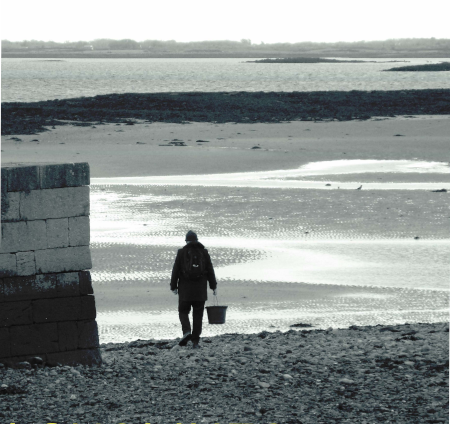
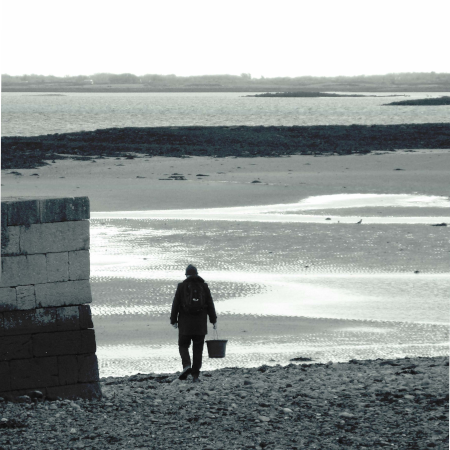
use diff image on home page and right float align to text

diff --git a/_layouts/home.html b/_layouts/home.html
@@ -5,20 +5,20 @@ layout: page
 
 <h2>Longlines - A Novel</h2>
 
-<img src="assets/longlines-cover-square-01.png" alt="Longlines">
+<img src="assets/longlines-cover-narrow-cropped.png" alt="Longlines" style="float: right; margin: 0 0 0 15px;">
 
-<p>JJ Hynes, a veteran of the Troubles in Derry and Belfast has sacrificed his life, marriage, family to the Cause. Now he’s on the run.</p>
+<p>JJ Hynes, a veteran of the Troubles in Derry and Belfast has sacrificed his life, marriage, family to the Cause. Now he’s on the run.<br/><br/>
 
-<p>Traumatised, bewildered, JJ finds refuge in Holland with a survivor of the Dutch Resistance who is still haunted, like himself, by memories of the past.</p>
+Traumatised, bewildered, JJ finds refuge in Holland with a survivor of the Dutch Resistance who is still haunted, like himself, by memories of the past.<br/><br/>
 
-<p>Fate intervenes and JJ is called back to Ireland, tasked with persuading comrades in the West to back the ‘road to peace’, a process he wants to believe in.</p>
+Fate intervenes and JJ is called back to Ireland, tasked with persuading comrades in the West to back the ‘road to peace’, a process he wants to believe in.<br/><br/>
 
-<p>In the village of Killoveragh, he encounters Ashling, a might-have-been sweetheart from his time in Dublin, and her sister Nora.</p>
+In the village of Killoveragh, he encounters Ashling, a might-have-been sweetheart from his time in Dublin, and her sister Nora.<br/><br/>
 
-<p>Can JJ, wavering himself, persuade the hardliners to support the peace process?</p>
+Can JJ, wavering himself, persuade the hardliners to support the peace process?<br/><br/>
 
-<p>Can there be peace, happiness and even love for somebody like him?</p>
+Can there be peace, happiness and even love for somebody like him?<br/><br/>
 
-<p>History, politics, and possible redemption come together here in a narrative that reads like a thriller but asks serious and important questions about the interweaving of personal and national trauma. </p>
+History, politics, and possible redemption come together here in a narrative that reads like a thriller but asks serious and important questions about the interweaving of personal and national trauma.<br/><br/>
 
 <p><img src="assets/caoilte-bw-01.jpg" alt="Caoilte Breatnach"></p>
